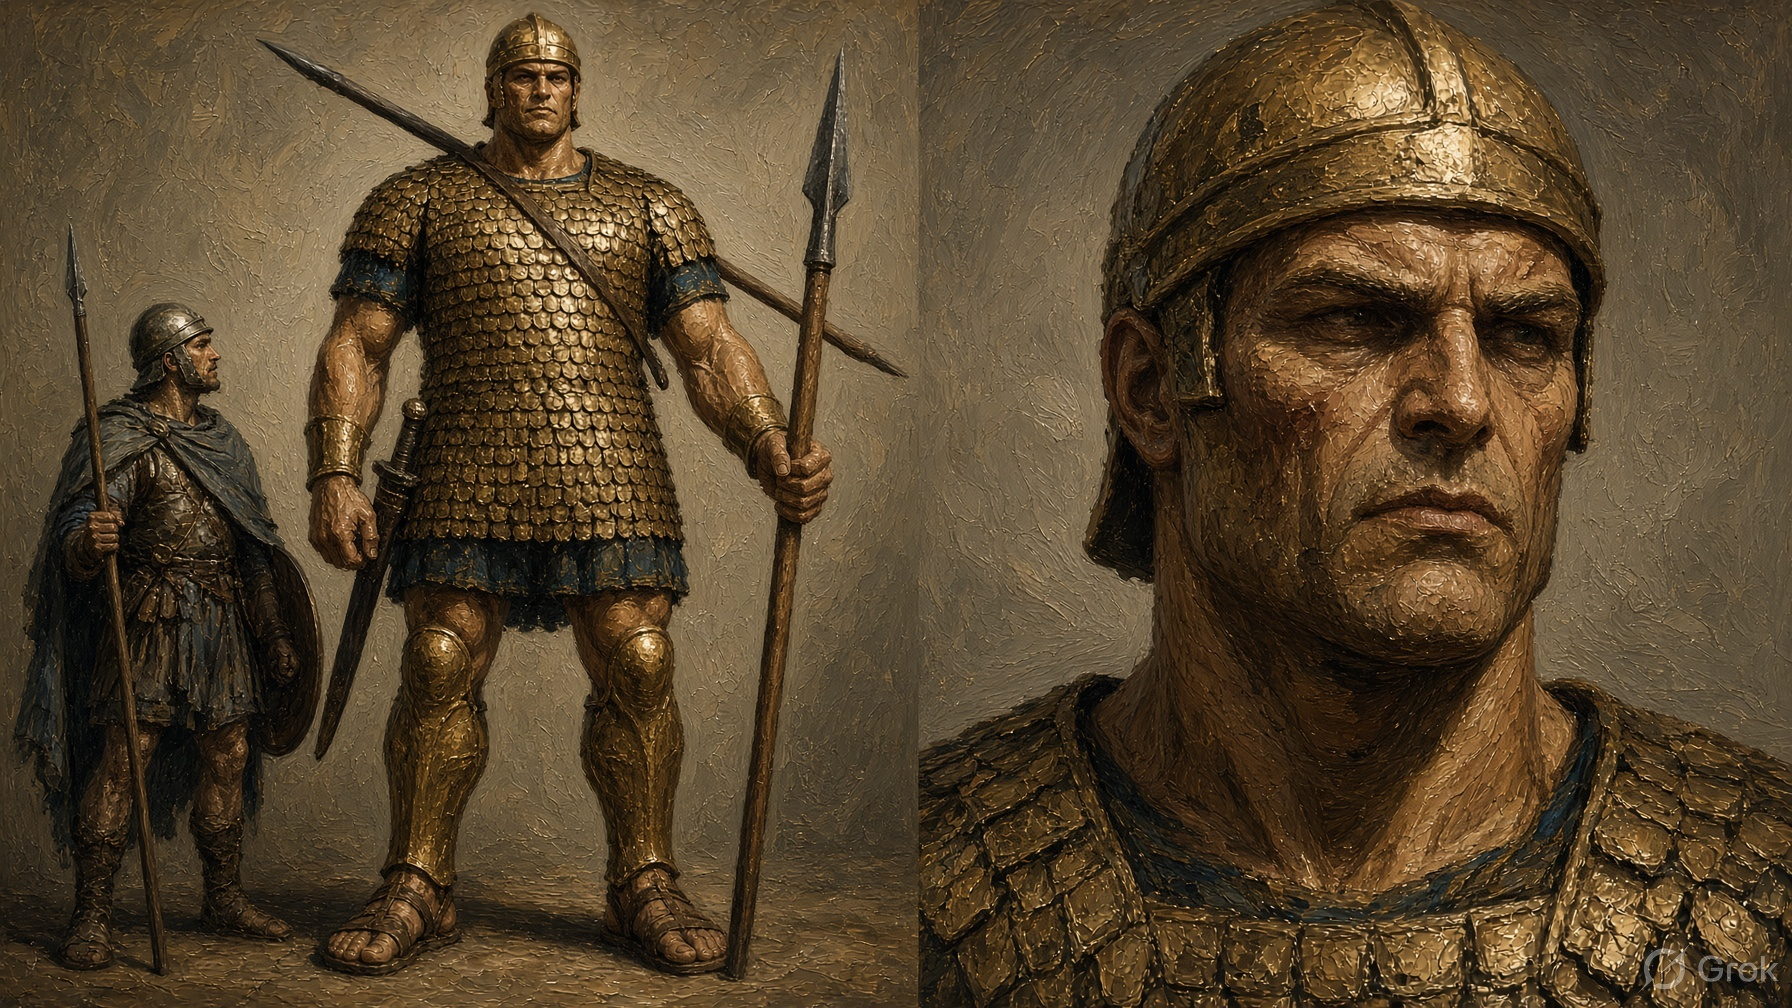
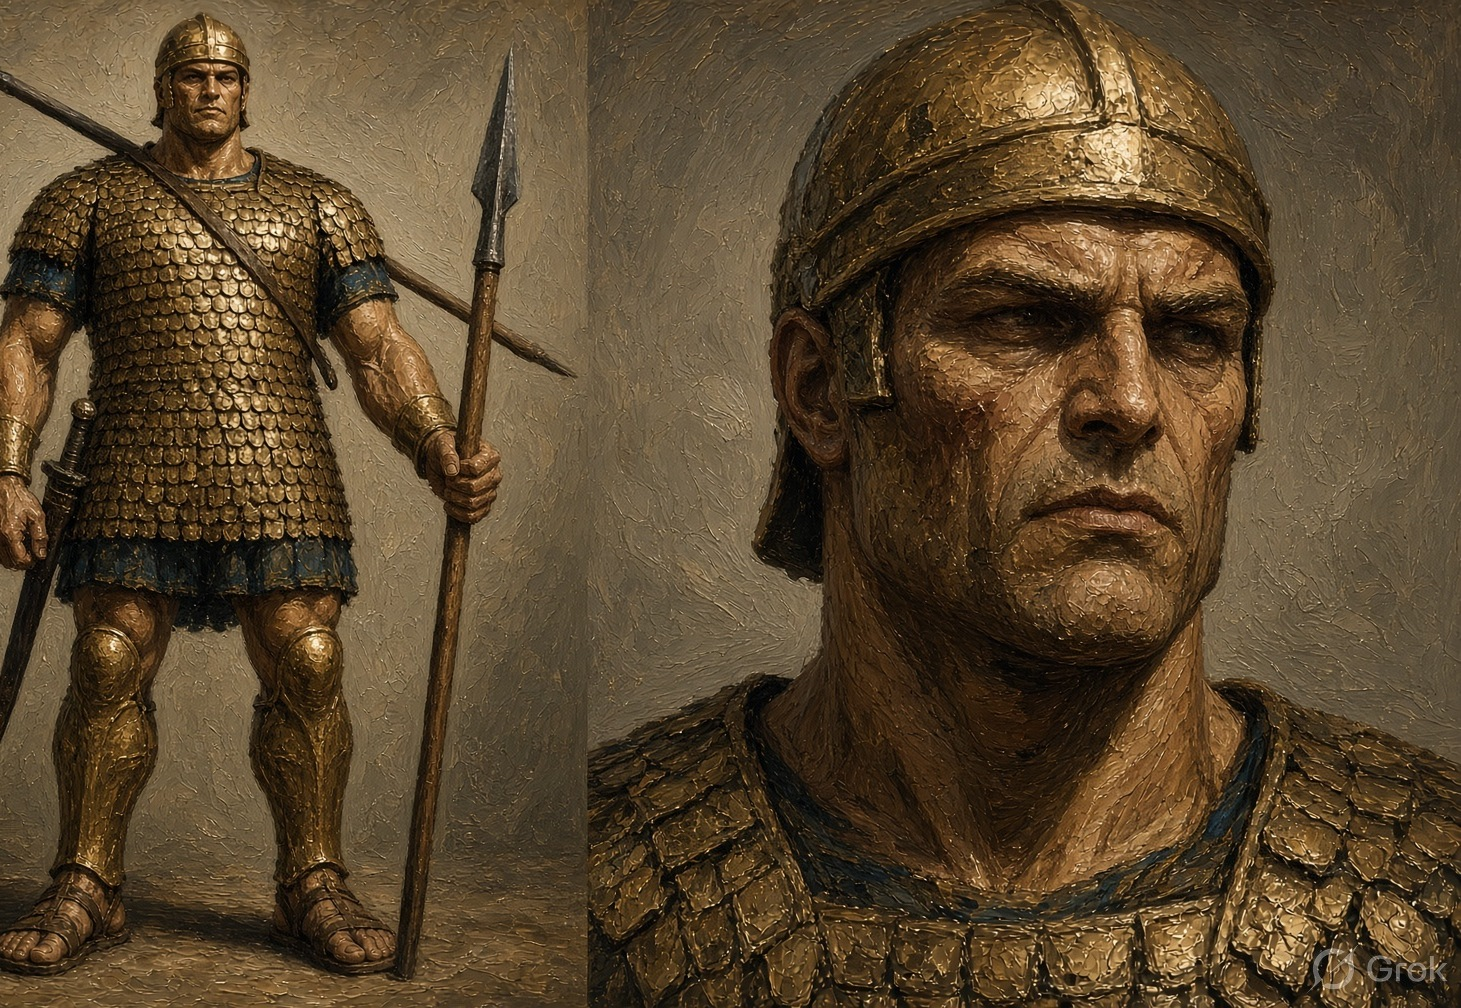
Pilot 2: selects, fixes for four stills, a motion clip per still
Shield bearer described consistently, Goliath sheet cropped, K2 prompt now forces facedown
(all three first takes showed him on his back, against 1 Samuel 17:49).

Claude-Session: https://claude.ai/code/session_01PuknyjaRHPE4hDdPCreZHa

diff --git a/pipeline/generate.py b/pipeline/generate.py
@@ -28,7 +28,7 @@ def placeholder(text, path):
 def main():
     ap = argparse.ArgumentParser()
     ap.add_argument('episode'); ap.add_argument('--mode', default='stills'); ap.add_argument('--only', default='')
-    ap.add_argument('--takes', type=int, default=0); ap.add_argument('--dry-run', action='store_true'); ap.add_argument('--workers', type=int, default=6)
+    ap.add_argument('--takes', type=int, default=0); ap.add_argument('--redo', default='false'); ap.add_argument('--dry-run', action='store_true'); ap.add_argument('--workers', type=int, default=6)
     a = ap.parse_args()
     ep = json.load(open(a.episode, encoding='utf-8'))
     root = os.path.dirname(os.path.dirname(os.path.dirname(os.path.abspath(a.episode))))
@@ -37,6 +37,10 @@ def main():
     man = json.load(open(mpath)) if os.path.exists(mpath) else {'episode': ep['id'], 'stills': {}, 'clips': {}, 'log': []}
     only = {x.strip() for x in a.only.split(',') if x.strip()}
     if not a.dry_run: import xai
+    if a.redo.lower() == 'true' and only:
+        import glob
+        for i in only:
+            for f in glob.glob(f'{out}/stills/{i}_t*.jpg') + glob.glob(f'{out}/clips/{i}.mp4'): os.remove(f); print('  removed', os.path.basename(f))
     jobs = []
 
     if a.mode in ('stills', 'probe'):

diff --git a/pipeline/xai.py b/pipeline/xai.py
@@ -68,7 +68,7 @@ def image(prompt, n=1, refs=(), aspect_ratio='16:9', resolution='2k', multi='ima
         print('  multi-image edit refused, falling back to one reference board:', str(e)[:200], flush=True)
         return image(prompt, n, refs, aspect_ratio, resolution, multi='board')
 
-def video(prompt, image_path, duration=6, aspect_ratio='16:9', resolution='720p', poll=6, timeout=1800):
+def video(prompt, image_path, duration=6, aspect_ratio='16:9', resolution='1080p', poll=6, timeout=1800):
     """Image-to-video. Returns mp4 bytes."""
     body = {'model': VIDEO_MODEL, 'prompt': prompt, 'image': {'url': data_uri(image_path, 1920)}, 'duration': duration,
             'aspect_ratio': aspect_ratio, 'resolution': resolution}
